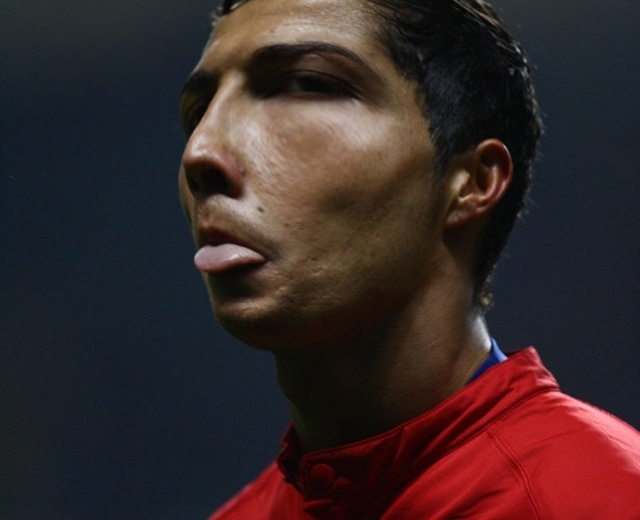
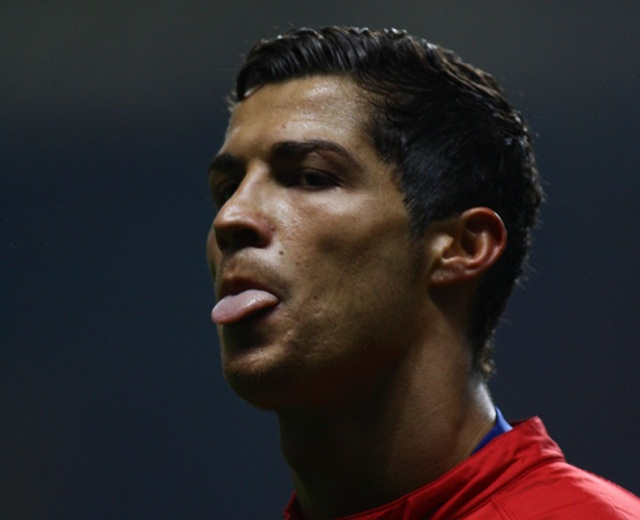
Runner: fotos mejores y sin repetir, memes por lógica (gana=épico, pierde=triste), sonidos de meme sintetizados
Claude-Session: https://claude.ai/code/session_01U599snftv6CfS1Sg6ay5uu

diff --git a/produccion/render_runner.py b/produccion/render_runner.py
@@ -29,8 +29,9 @@ VEL = 9.8              # unidades/s de la pista
 _det = None
 
 
-def cara(img):
-    """Cara más grande (YuNet, el mismo detector que usa poses.py): (x, y, ancho, alto) o None."""
+def cara(img, puntos=False):
+    """Cara más grande (YuNet, el mismo detector que usa poses.py): (x, y, ancho, alto) o None.
+    Con puntos=True devuelve también ojos, nariz y boca [(x, y) x5]."""
     global _det
     if _det is None:
         _det = cv2.FaceDetectorYN.create(str(ROOT / "assets/modelos/face_detection_yunet_2023mar.onnx"), "", (320, 320), 0.6)
@@ -39,28 +40,38 @@ def cara(img):
     _, caras = _det.detect(img)
     if caras is None or not len(caras):
         return None
-    x, y, cw, ch = max(caras, key=lambda c: c[2] * c[3])[:4]
-    return float(x), float(y), float(cw), float(ch)
+    c = max(caras, key=lambda c: c[2] * c[3])
+    caja = tuple(float(v) for v in c[:4])
+    return (caja, [(float(c[4 + 2 * k]), float(c[5 + 2 * k])) for k in range(5)]) if puntos else caja
 
 
 def recortar(ruta, dst, escala=3.2, bw=640, bh=520):
+    """Recorte con la proporción del cuadro de foto, la cara centrada a lo ancho y a ~40 % del alto (nunca corta la cabeza)."""
     img = cv2.imread(str(ruta))
     h, w = img.shape[:2]
     c = cara(img)
+    cw_, ch_ = (w, w * bh / bw) if w * bh / bw <= h else (h * bw / bh, h)          # el recorte más grande posible
     if c:
-        x, y, cw, ch = c
-        lado_w = max(cw * escala * bw / bh, cw * 2.2)
-        lado_h = lado_w * bh / bw
-        cx, cy = x + cw / 2, y + ch * 0.75
-        x0 = int(np.clip(cx - lado_w / 2, 0, max(0, w - lado_w))); y0 = int(np.clip(cy - lado_h * 0.42, 0, max(0, h - lado_h)))
-        crop = img[y0:y0 + int(min(lado_h, h)), x0:x0 + int(min(lado_w, w))]
+        x, y, fw, fh = c
+        quiere = fw * escala
+        if quiere < cw_:
+            cw_, ch_ = quiere, quiere * bh / bw
+        cx, cy = x + fw / 2, y + fh / 2
+        x0 = np.clip(cx - cw_ / 2, 0, w - cw_); y0 = np.clip(cy - ch_ * 0.40, 0, h - ch_)
     else:
-        crop = img
-    ch_, cw_ = crop.shape[:2]
-    r = max(bw / cw_, bh / ch_)
-    crop = cv2.resize(crop, (int(cw_ * r + 1), int(ch_ * r + 1)), interpolation=cv2.INTER_LANCZOS4)
-    y0 = (crop.shape[0] - bh) // 2; x0 = (crop.shape[1] - bw) // 2
-    crop = crop[y0:y0 + bh, x0:x0 + bw]
+        x0, y0 = (w - cw_) / 2, (h - ch_) / 2
+    if c and c[3] > ch_ * 0.62:
+        # primer plano muy cerrado: la foto entra entera y el resto se rellena con la misma foto desenfocada
+        fondo = cv2.GaussianBlur(cv2.resize(img, (bw, int(bw * h / w)) if w / h < bw / bh else (int(bh * w / h), bh)), (0, 0), 25)
+        fy, fx = (fondo.shape[0] - bh) // 2, (fondo.shape[1] - bw) // 2
+        lienzo = (fondo[max(fy, 0):max(fy, 0) + bh, max(fx, 0):max(fx, 0) + bw] * 0.6).astype(np.uint8)
+        lienzo = cv2.resize(lienzo, (bw, bh))
+        r = min(bw / w, bh / h); fw2, fh2 = int(w * r), int(h * r)
+        lienzo[(bh - fh2) // 2:(bh - fh2) // 2 + fh2, (bw - fw2) // 2:(bw - fw2) // 2 + fw2] = cv2.resize(img, (fw2, fh2), interpolation=cv2.INTER_AREA)
+        cv2.imwrite(str(dst), lienzo, [cv2.IMWRITE_JPEG_QUALITY, 94])
+        return True
+    crop = img[int(y0):int(y0 + ch_), int(x0):int(x0 + cw_)]
+    crop = cv2.resize(crop, (bw, bh), interpolation=cv2.INTER_LANCZOS4 if crop.shape[1] < bw else cv2.INTER_AREA)
     cv2.imwrite(str(dst), crop, [cv2.IMWRITE_JPEG_QUALITY, 94])
     return c is not None
 
@@ -77,6 +88,62 @@ def deformar(dst, fuerza=0.75):
     cv2.imwrite(str(dst), out, [cv2.IMWRITE_JPEG_QUALITY, 94])
 
 
+EMOJI = "/usr/share/fonts/truetype/noto/NotoColorEmoji.ttf"
+
+
+def pegar_emoji(im, e, x, y, tam):
+    """Emoji a color (Noto Color Emoji solo se dibuja a 109 px: se dibuja y se escala)."""
+    from PIL import Image, ImageDraw, ImageFont
+    capa = Image.new("RGBA", (136, 128), (0, 0, 0, 0))
+    ImageDraw.Draw(capa).text((0, 0), e, font=ImageFont.truetype(EMOJI, 109), embedded_color=True)
+    capa = capa.crop(capa.getbbox()).resize((tam, tam), Image.LANCZOS)
+    im.alpha_composite(capa, (int(x - tam / 2), int(y - tam / 2)))
+
+
+def meme(dst, tipo):
+    """Lógica pura: si la puerta anterior hizo GANAR plata, la foto sale 'épica' (ojos láser, brillo dorado, 🤑📈);
+    si hizo PERDER, sale 'triste' (colores fríos, cara deformada, 💀📉)."""
+    from PIL import Image, ImageDraw, ImageFilter, ImageEnhance
+    img = cv2.imread(str(dst))
+    det = cara(img, puntos=True)
+    if tipo == "triste":
+        if det:
+            cv2.imwrite(str(dst), img); deformar(dst, 0.55); img = cv2.imread(str(dst))
+        gris = cv2.cvtColor(cv2.cvtColor(img, cv2.COLOR_BGR2GRAY), cv2.COLOR_GRAY2BGR)
+        frio = cv2.addWeighted(gris, 0.75, np.full_like(img, (140, 70, 20)), 0.25, 0)        # gris azulado
+        im = Image.fromarray(cv2.cvtColor(frio, cv2.COLOR_BGR2RGB)).convert("RGBA")
+        if det:
+            (x, y, cw, ch), pts = det
+            for ex, ey in pts[:2]:                                                       # lágrimas
+                pegar_emoji(im, "💧", ex, ey + ch * 0.32, int(ch * 0.22))
+        pegar_emoji(im, "📉", im.width - 70, 70, 110)
+        pegar_emoji(im, "💀", 70, im.height - 70, 110)
+    else:
+        im = ImageEnhance.Color(Image.fromarray(cv2.cvtColor(img, cv2.COLOR_BGR2RGB))).enhance(1.25).convert("RGBA")
+        oro = Image.new("RGBA", im.size, (255, 190, 40, 0)); d = ImageDraw.Draw(oro)
+        for r in range(0, min(im.size), 6):                                             # viñeta dorada
+            a = int(110 * (r / max(im.size)) ** 2)
+            d.rectangle((r // 2, r // 2, im.width - r // 2, im.height - r // 2), outline=(255, 190, 40, max(0, 90 - a)))
+        im.alpha_composite(oro.filter(ImageFilter.GaussianBlur(18)))
+        if det:
+            (x, y, cw, ch), pts = det
+            rayo = Image.new("RGBA", im.size, (0, 0, 0, 0)); d = ImageDraw.Draw(rayo)
+            largo = im.width * (1.4 if tipo == "epico_max" else 0.9)
+            centro = x + cw / 2
+            de_frente = abs(pts[0][0] - pts[1][0]) > cw * 0.28                           # de perfil los láser quedan mal
+            for ex, ey in (pts[:2] if de_frente else []):                                                       # ojos láser: salen hacia afuera de la cara
+                lado = -1 if ex < centro else 1
+                fin = (ex + lado * largo * 0.45, ey - largo * 0.10)
+                for ancho, alfa in ((int(ch * 0.16), 90), (int(ch * 0.09), 170), (int(ch * 0.035), 255)):
+                    d.line((ex, ey, *fin), fill=(255, 40, 30, alfa), width=max(2, ancho))
+                    d.ellipse((ex - ancho, ey - ancho, ex + ancho, ey + ancho), fill=(255, 60, 40, alfa))
+            im.alpha_composite(rayo.filter(ImageFilter.GaussianBlur(3)))
+            im.alpha_composite(rayo)
+        pegar_emoji(im, "📈", im.width - 70, 70, 110)
+        pegar_emoji(im, "🤑" if tipo == "epico_max" else "🔥", 70, im.height - 70, 110)
+    im.convert("RGB").save(str(dst), quality=94)
+
+
 # ------------------------------------------------------------------ lógica de la plata
 def aplicar(m, op, v):
     return {"+": m + v, "-": m - v, "x": m * v, "÷": m / v}[op]
@@ -87,9 +154,11 @@ def armar(g, out):
     fotos, etapas = {}, []
     for i, e in enumerate(g["etapas"]):
         dst = fotos_dir / f"e{i:02d}.jpg"
-        recortar(ROOT / e["foto"], dst)
-        if e.get("deformar"):
-            deformar(dst, e.get("fuerza", 0.75))
+        recortar(ROOT / e["foto"], dst, e.get("escala", 3.2))
+        if i > 0 and e.get("meme", True):
+            p = g["puertas"][i - 1]; lado = p["lados"][p["elige"]]
+            op = lado["revela"][0] if lado["txt"] == "???" else lado["op"]
+            meme(dst, "triste" if op in "-÷" else ("epico_max" if p.get("grito") else "epico"))
         fotos[f"e{i}"] = f"/salida/{out.name}/fotos/{dst.name}"
         etapas.append(dict(dia=e["dia"], foto=f"e{i}", color=e.get("color", "#2fe36b")))
     m = g["inicio"]; puertas = []
@@ -165,15 +234,50 @@ def monedas(n=6, semilla=1):
     return out
 
 
+def bocina_mlg():
+    """Airhorn de meme: tres bocinazos de sierras desafinadas (sintetizado, sin derechos)."""
+    sr = M.SR; out = []
+    for d in (0.16, 0.16, 0.55):
+        t = np.arange(int(d * sr)) / sr
+        s = sum(2 * ((f * t) % 1) - 1 for f in (466, 470, 554, 698, 932)) / 5
+        s = np.convolve(s, np.ones(4) / 4, mode="same") * np.minimum(t / 0.01, 1) * np.minimum((d - t) / 0.03, 1)
+        out += [s * 0.38, np.zeros(int(0.04 * sr))]
+    return np.concatenate(out).astype(np.float32)
+
+
+def trombon_triste():
+    """'Wah wah wah waaah': cuatro notas que bajan, la última con vibrato (sintetizado)."""
+    sr = M.SR; out = []
+    for f, d in ((311, 0.32), (294, 0.32), (277, 0.32), (262, 1.0)):
+        t = np.arange(int(d * sr)) / sr
+        vib = 1 + 0.03 * np.sin(2 * np.pi * 6 * t) * (d > 0.5)
+        fase = 2 * np.pi * np.cumsum(f * vib) / sr
+        s = sum(np.sin(k * fase) / k ** 0.9 for k in range(1, 9))                     # timbre de bronce
+        s *= np.minimum(t / 0.04, 1) * np.minimum((d - t) / 0.06, 1) * (1 + 0.6 * np.sin(np.pi * np.minimum(t / 0.25, 1)))
+        out.append(s * 0.09)
+    return np.concatenate(out).astype(np.float32)
+
+
+def vine_boom():
+    t = np.arange(int(1.1 * M.SR)) / M.SR
+    s = np.sin(2 * np.pi * (42 + 90 * np.exp(-18 * t)) * t) * np.exp(-t * 3.2)
+    clic = np.random.default_rng(2).standard_normal(len(t)) * np.exp(-t * 120) * 0.3
+    return ((s + clic) * 0.8).astype(np.float32)
+
+
 def audio(cfg):
     dur = cfg["duracion"]; mez = M.Mezcla(dur)
     for p in cfg["puertas"]:
         if p["efecto"] == "sube":
             mez.add(p["t"], kaching()); mez.add(p["t"] + 0.05, monedas(7 if p["grito"] else 4, int(p["t"] * 10)))
+            if p["grito"]:
+                mez.add(p["t"] + 0.08, bocina_mlg(), 0.9)
         else:
-            mez.add(p["t"], bajon())
+            mez.add(p["t"], trombon_triste(), 1.0)
+            if p["grito"]:
+                mez.add(p["t"], vine_boom(), 0.9)
         mez.add(p["t"] - 0.15, M.whoosh(0.3), 0.35)
-    mez.add(cfg["tMeta"], M.boom(), 0.6); mez.add(cfg["tMeta"], M.tribuna(), 0.8); mez.add(cfg["tMeta"] + 0.05, monedas(14, 9))
+    mez.add(cfg["tMeta"], M.boom(), 0.6); mez.add(cfg["tMeta"], M.tribuna(2.6), 1.0); mez.add(cfg["tMeta"] + 0.1, bocina_mlg(), 0.9); mez.add(cfg["tMeta"] + 0.05, monedas(14, 9))
     musica = musica_juego(dur)[: int(dur * M.SR)]
     solo = mez.x[: int(dur * M.SR)]
     return {"short.mp4": np.tanh((solo + musica * 0.85) * 1.1) * 0.9, "short_sin_musica.mp4": np.tanh(solo * 1.1) * 0.8}
